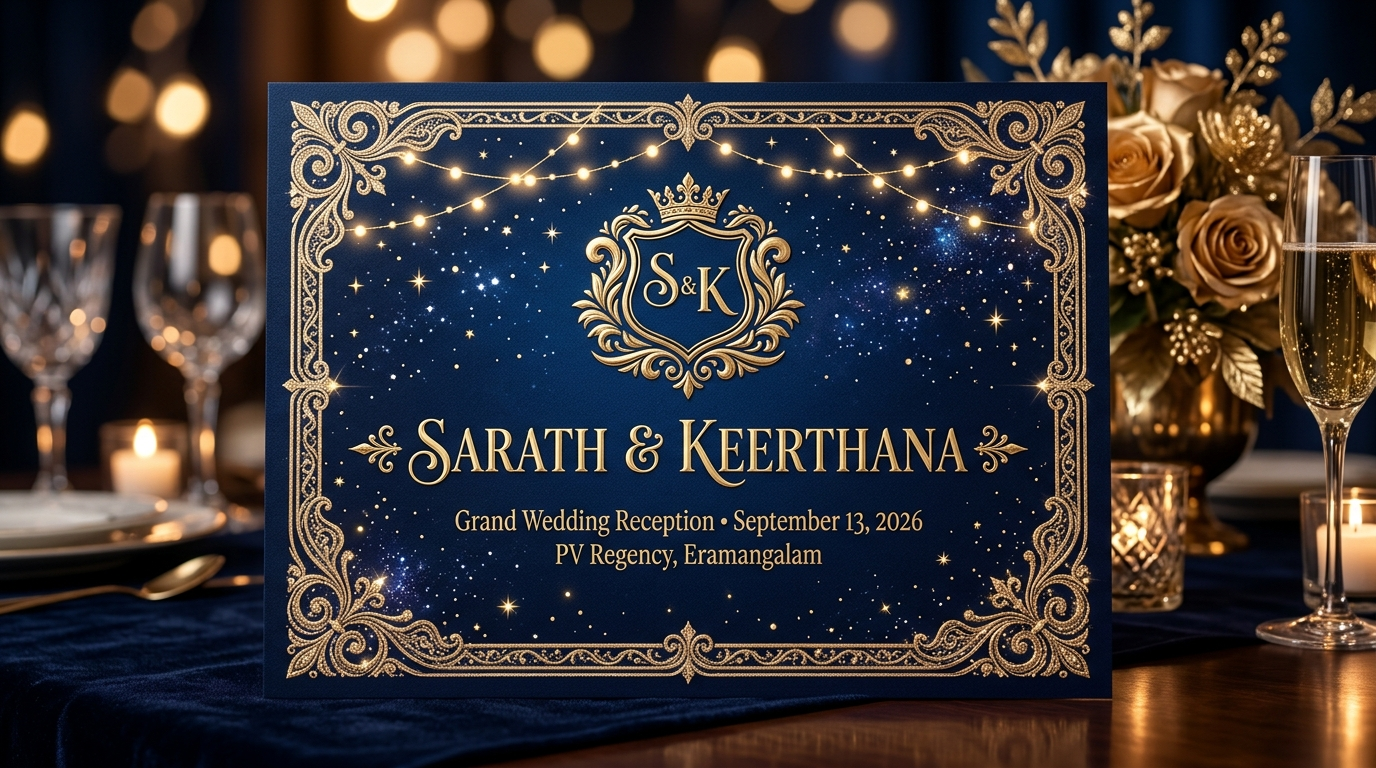
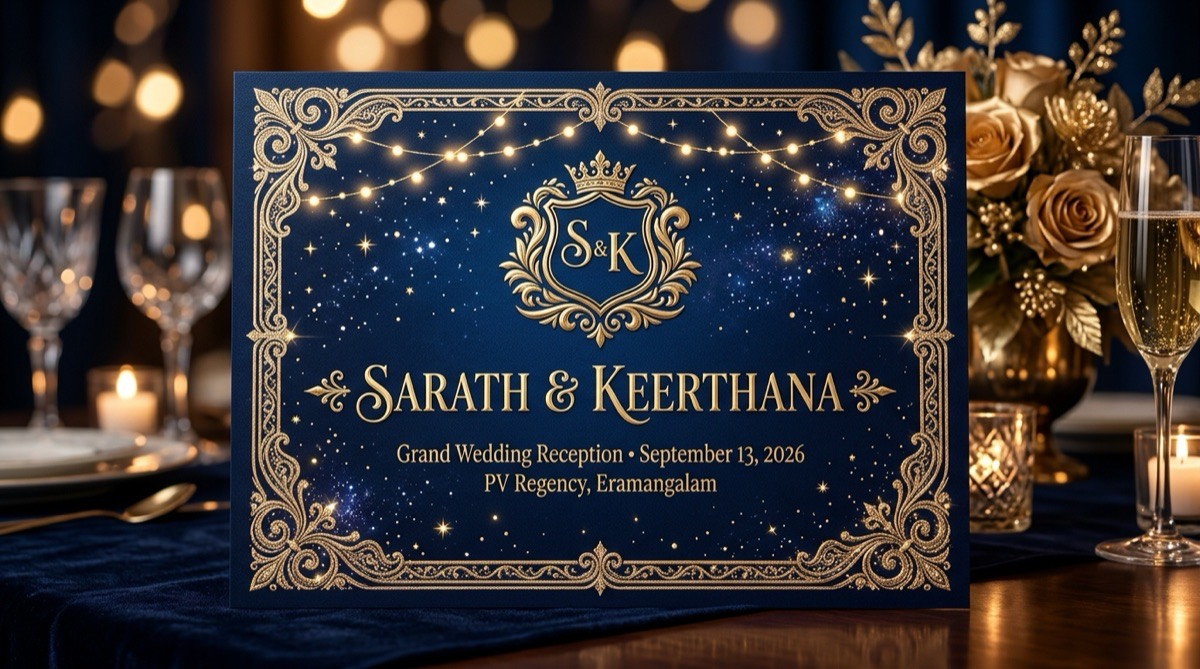
Optimize reception OG preview to 255KB and add cache-busting for WhatsApp crawler

diff --git a/groom.html b/groom.html
@@ -13,18 +13,21 @@
   <meta property="og:url" content="https://keerthana-sarath.vercel.app/groom" />
   <meta property="og:title" content="✨ Wedding Reception: Dr. Sarath &amp; Dr. Keerthana" />
   <meta property="og:description" content="Sunday, 13 September 2026 • 5:00 PM to 8:00 PM • PV Regency, Eramangalam. ✦ Tap to open the digital reception invitation." />
-  <meta property="og:image" content="https://keerthana-sarath.vercel.app/assets/images/og_preview_reception.jpg" />
-  <meta property="og:image:secure_url" content="https://keerthana-sarath.vercel.app/assets/images/og_preview_reception.jpg" />
+  <meta property="og:image" content="https://keerthana-sarath.vercel.app/assets/images/og_preview_reception.jpg?v=52.0" />
+  <meta property="og:image:secure_url" content="https://keerthana-sarath.vercel.app/assets/images/og_preview_reception.jpg?v=52.0" />
   <meta property="og:image:type" content="image/jpeg" />
   <meta property="og:image:width" content="1200" />
   <meta property="og:image:height" content="630" />
   <meta property="og:image:alt" content="Royal Wedding Reception Invitation of Dr. Sarath and Dr. Keerthana" />
+  <link rel="image_src" href="https://keerthana-sarath.vercel.app/assets/images/og_preview_reception.jpg?v=52.0" />
+  <meta itemprop="image" content="https://keerthana-sarath.vercel.app/assets/images/og_preview_reception.jpg?v=52.0" />
   
   <!-- Twitter Card -->
   <meta name="twitter:card" content="summary_large_image" />
   <meta name="twitter:title" content="✨ Wedding Reception: Dr. Sarath &amp; Dr. Keerthana" />
   <meta name="twitter:description" content="Sunday, 13 September 2026 • 5:00 PM to 8:00 PM • PV Regency, Eramangalam. Tap to open the digital reception invitation." />
-  <meta name="twitter:image" content="https://keerthana-sarath.vercel.app/assets/images/og_preview_reception.jpg" />
+  <meta name="twitter:image" content="https://keerthana-sarath.vercel.app/assets/images/og_preview_reception.jpg?v=52.0" />
+
 
 
 

diff --git a/groom/index.html b/groom/index.html
@@ -13,18 +13,21 @@
   <meta property="og:url" content="https://keerthana-sarath.vercel.app/groom" />
   <meta property="og:title" content="✨ Wedding Reception: Dr. Sarath &amp; Dr. Keerthana" />
   <meta property="og:description" content="Sunday, 13 September 2026 • 5:00 PM to 8:00 PM • PV Regency, Eramangalam. ✦ Tap to open the digital reception invitation." />
-  <meta property="og:image" content="https://keerthana-sarath.vercel.app/assets/images/og_preview_reception.jpg" />
-  <meta property="og:image:secure_url" content="https://keerthana-sarath.vercel.app/assets/images/og_preview_reception.jpg" />
+  <meta property="og:image" content="https://keerthana-sarath.vercel.app/assets/images/og_preview_reception.jpg?v=52.0" />
+  <meta property="og:image:secure_url" content="https://keerthana-sarath.vercel.app/assets/images/og_preview_reception.jpg?v=52.0" />
   <meta property="og:image:type" content="image/jpeg" />
   <meta property="og:image:width" content="1200" />
   <meta property="og:image:height" content="630" />
   <meta property="og:image:alt" content="Royal Wedding Reception Invitation of Dr. Sarath and Dr. Keerthana" />
+  <link rel="image_src" href="https://keerthana-sarath.vercel.app/assets/images/og_preview_reception.jpg?v=52.0" />
+  <meta itemprop="image" content="https://keerthana-sarath.vercel.app/assets/images/og_preview_reception.jpg?v=52.0" />
   
   <!-- Twitter Card -->
   <meta name="twitter:card" content="summary_large_image" />
   <meta name="twitter:title" content="✨ Wedding Reception: Dr. Sarath &amp; Dr. Keerthana" />
   <meta name="twitter:description" content="Sunday, 13 September 2026 • 5:00 PM to 8:00 PM • PV Regency, Eramangalam. Tap to open the digital reception invitation." />
-  <meta name="twitter:image" content="https://keerthana-sarath.vercel.app/assets/images/og_preview_reception.jpg" />
+  <meta name="twitter:image" content="https://keerthana-sarath.vercel.app/assets/images/og_preview_reception.jpg?v=52.0" />
+
 
 
 
